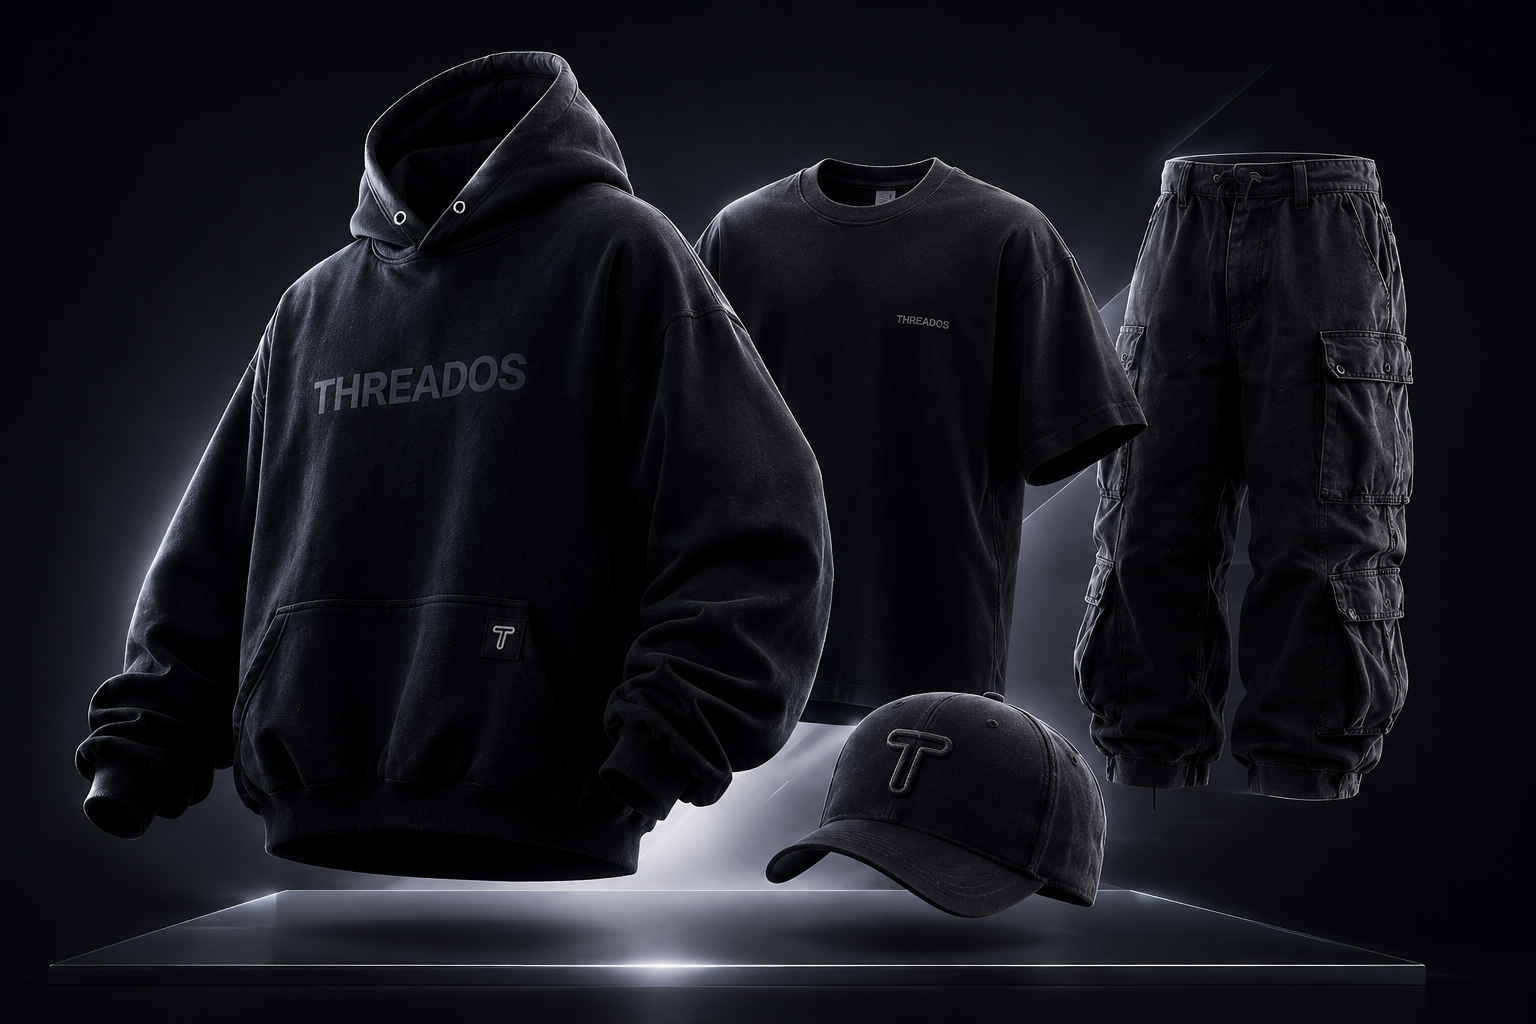
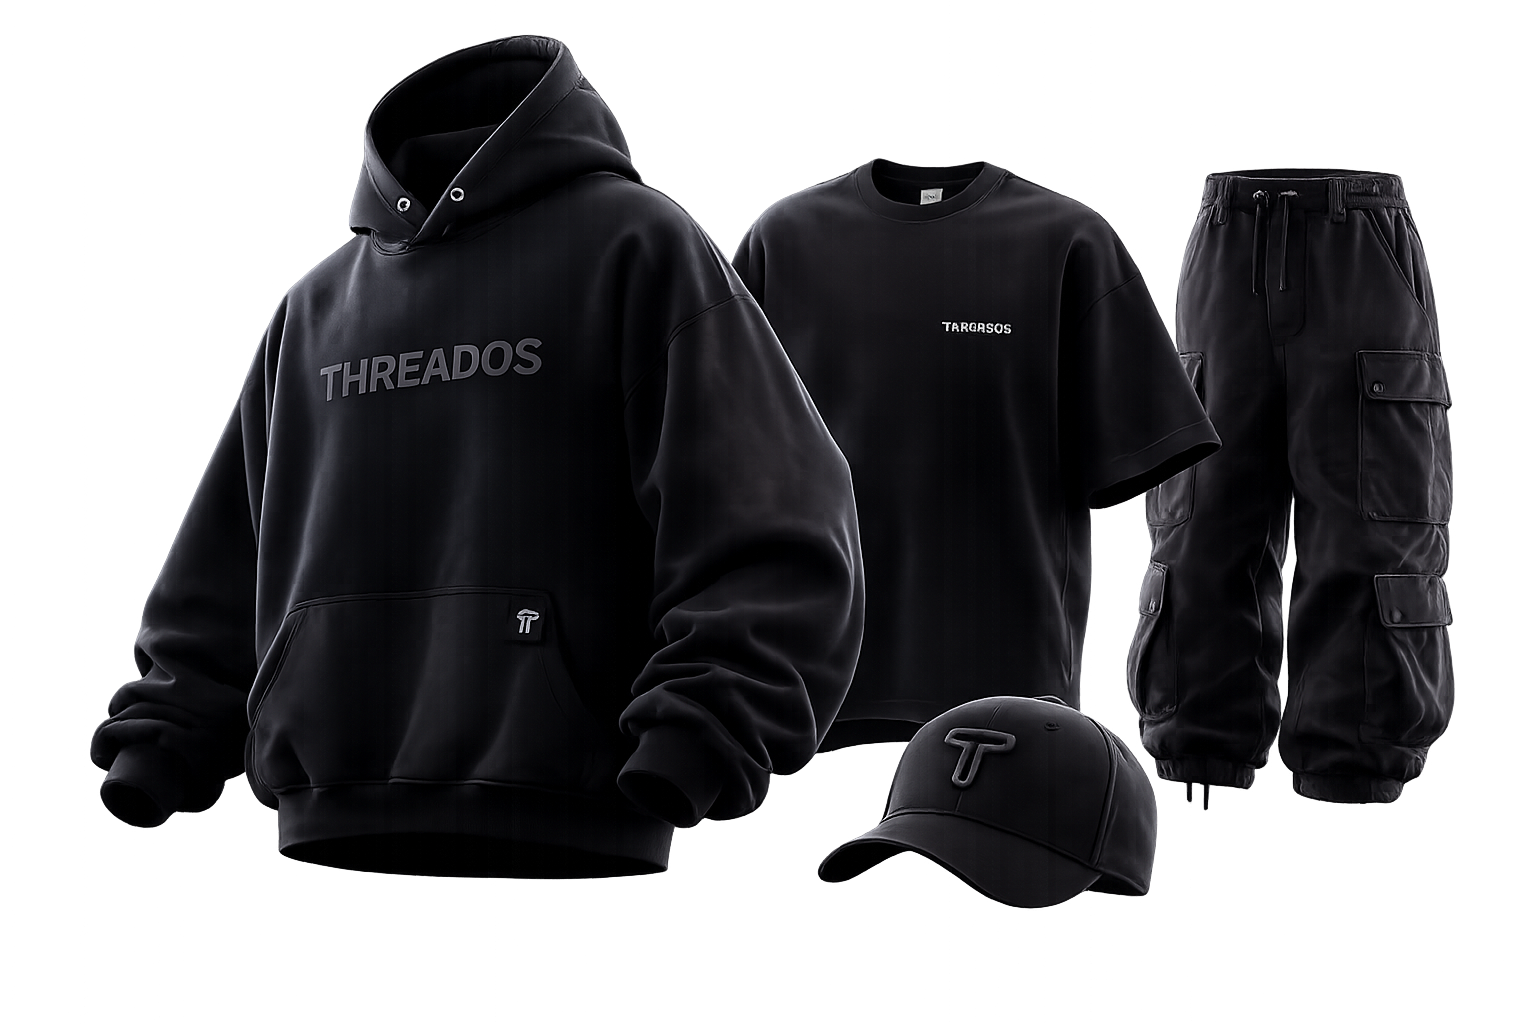
feat: transparent product cutout floating on CSS spotlight stage

diff --git a/src/components/hero/hero.css b/src/components/hero/hero.css
@@ -117,18 +117,57 @@
 
 .hero-visual__stage {
   position: relative;
-  width: 108%;
+  width: 110%;
   aspect-ratio: 3 / 2;
 }
 
+/* Dark-grey spotlight backdrop that lifts the all-black garments off the page */
+.hero-visual__spotlight {
+  position: absolute;
+  inset: -12% -8% -8%;
+  z-index: 0;
+  background:
+    radial-gradient(
+      54% 60% at 52% 38%,
+      rgba(150, 162, 190, 0.32) 0%,
+      rgba(120, 132, 160, 0.14) 42%,
+      transparent 70%
+    ),
+    radial-gradient(
+      30% 40% at 52% 22%,
+      rgba(226, 236, 255, 0.4) 0%,
+      transparent 60%
+    );
+  filter: blur(8px);
+  pointer-events: none;
+}
+
+/* Bright reflective platform glow at the base of the products */
+.hero-visual__floor {
+  position: absolute;
+  left: 10%;
+  right: 6%;
+  bottom: 12%;
+  height: 90px;
+  z-index: 0;
+  background: radial-gradient(
+    50% 100% at 50% 50%,
+    rgba(224, 234, 255, 0.55) 0%,
+    rgba(200, 214, 245, 0.16) 45%,
+    transparent 72%
+  );
+  filter: blur(12px);
+  pointer-events: none;
+}
+
 .hero-visual__img {
+  position: relative;
+  z-index: 1;
   width: 100%;
   height: 100%;
-  object-fit: cover;
+  object-fit: contain;
   object-position: center;
-  /* Melt the left edge into the page so there is no visible image box */
-  -webkit-mask-image: linear-gradient(to right, transparent 0%, #000 17%, #000 100%);
-  mask-image: linear-gradient(to right, transparent 0%, #000 17%, #000 100%);
+  filter: drop-shadow(0 30px 45px rgba(0, 0, 0, 0.55));
 }
 
 @media (max-width: 960px) {

diff --git a/src/components/hero/HeroVisual.tsx b/src/components/hero/HeroVisual.tsx
@@ -2,9 +2,9 @@
 import heroProduct from '../../assets/hero-product.png'
 
 /**
- * Hero product render — spotlit all-black streetwear collection on a
- * reflective platform. Edges are masked so the studio backdrop melts into
- * the page background instead of showing a hard image box.
+ * Hero product render — a transparent cutout of the all-black collection,
+ * floating on a CSS spotlight + glowing platform so it melts into the page
+ * with no image box.
  */
 export function HeroVisual() {
   return (
@@ -13,6 +13,8 @@ export function HeroVisual() {
       aria-label="THREADOS Kollektion: schwarzer Hoodie, T-Shirt, Cargohose und Cap im Spotlight"
     >
       <div className="hero-visual__stage">
+        <div className="hero-visual__spotlight" aria-hidden="true" />
+        <div className="hero-visual__floor" aria-hidden="true" />
         <img
           className="hero-visual__img"
           src={heroProduct}
